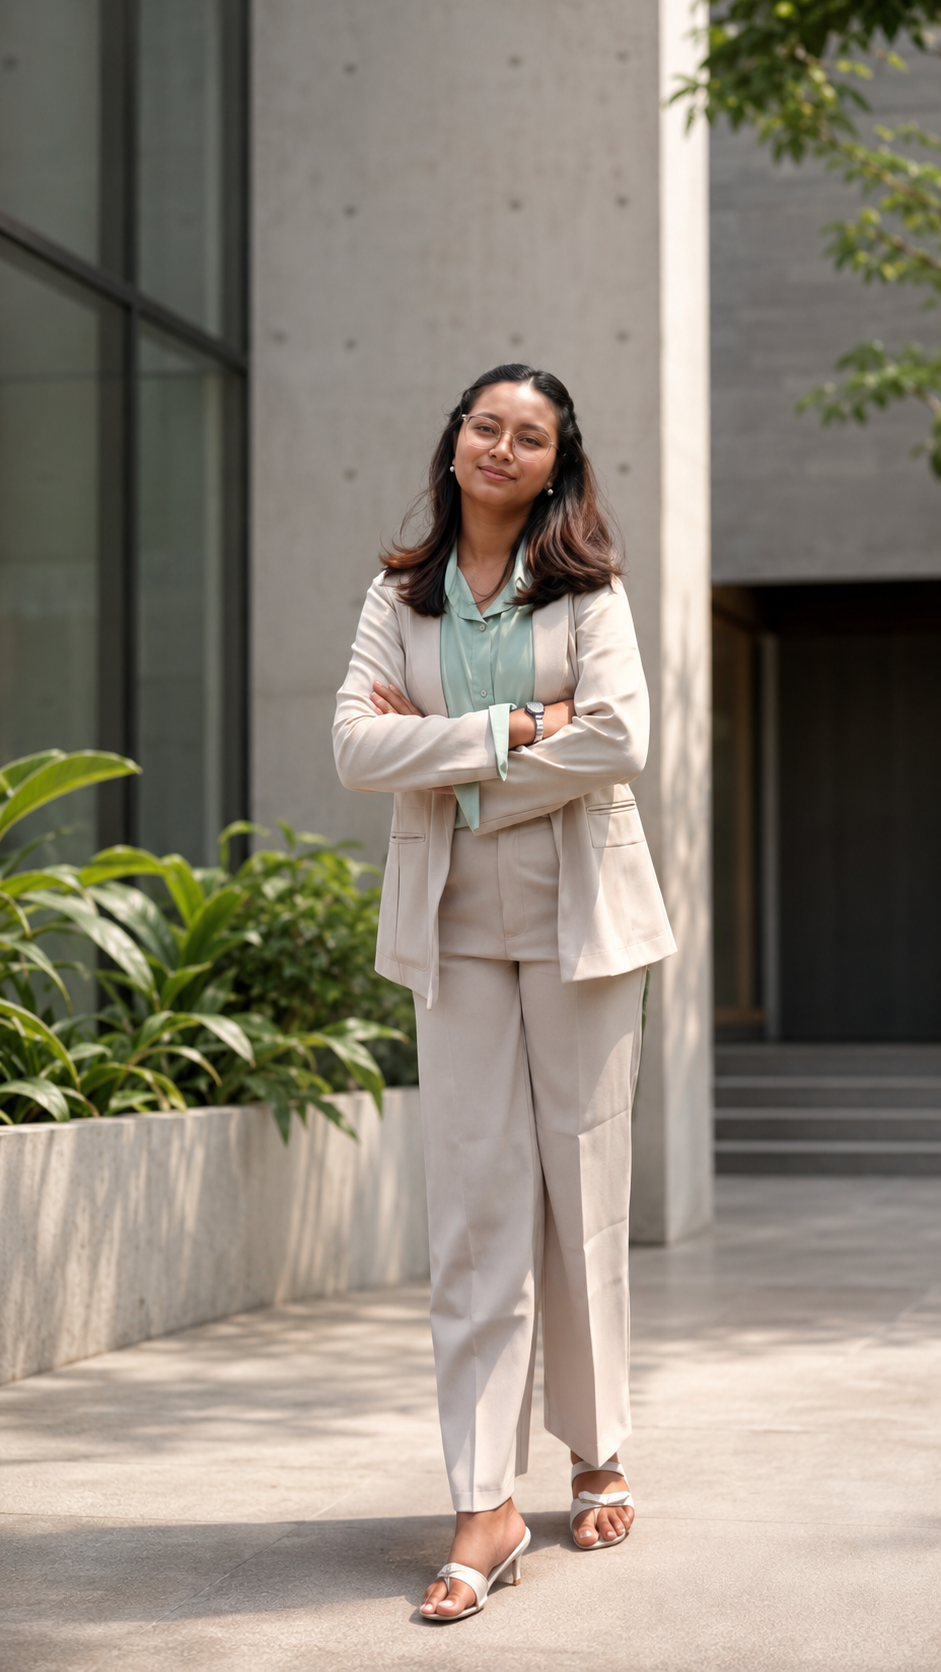
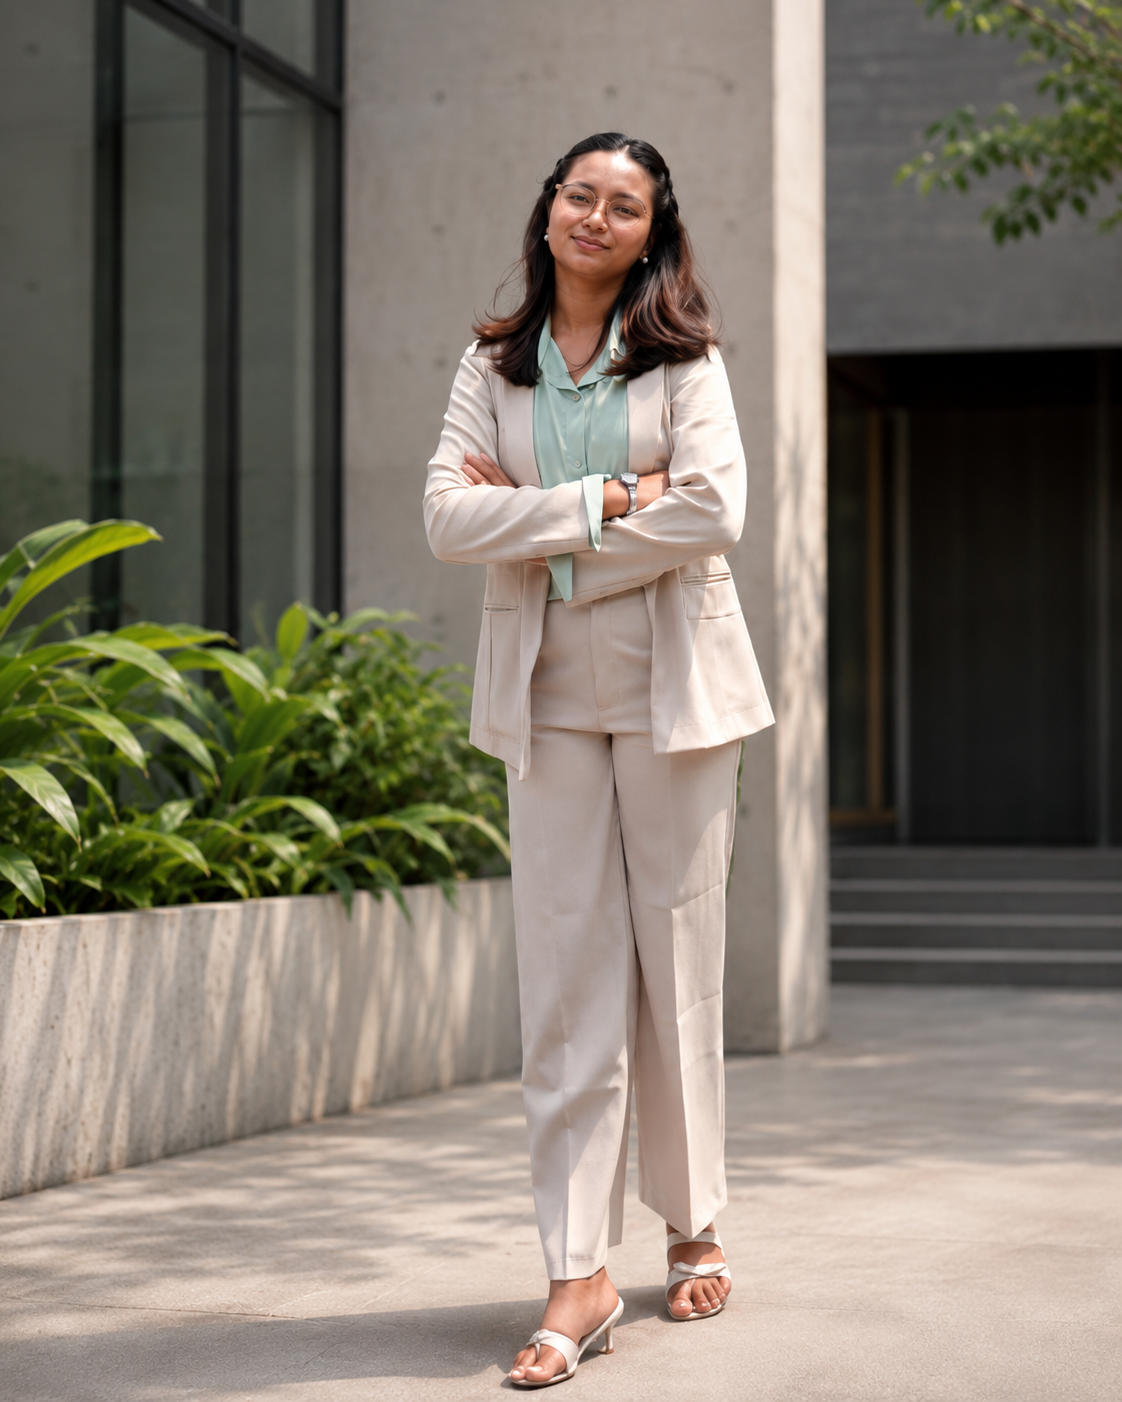
chore(fix): change profile image

diff --git a/src/components/layout/Navbar.tsx b/src/components/layout/Navbar.tsx
@@ -9,8 +9,8 @@ import { cn } from "@/lib/utils";
 import Link from "next/link";
 
 const NAV_LINKS = [
+  { label: "Home", href: "/" },
   { label: "Work", href: "/work" },
-  // { label: "Studio", href: "/#studio" },
   { label: "Process", href: "/process" },
   { label: "Profile", href: "/profile" },
 ];
@@ -45,7 +45,7 @@ export function Navbar() {
           className={cn(
             "mx-auto flex max-w-[110rem] items-center justify-between px-5 py-5 transition-all duration-500 sm:px-8",
             scrolled &&
-              "border-border/70 bg-background/70 mt-3 max-w-[105rem] rounded-full border px-6 py-3 shadow-[0_8px_30px_-12px_rgba(0,0,0,0.18)] backdrop-blur-xl",
+            "border-border/70 bg-background/70 mt-3 max-w-[105rem] rounded-full border px-6 py-3 shadow-[0_8px_30px_-12px_rgba(0,0,0,0.18)] backdrop-blur-xl",
           )}
         >
           <Link